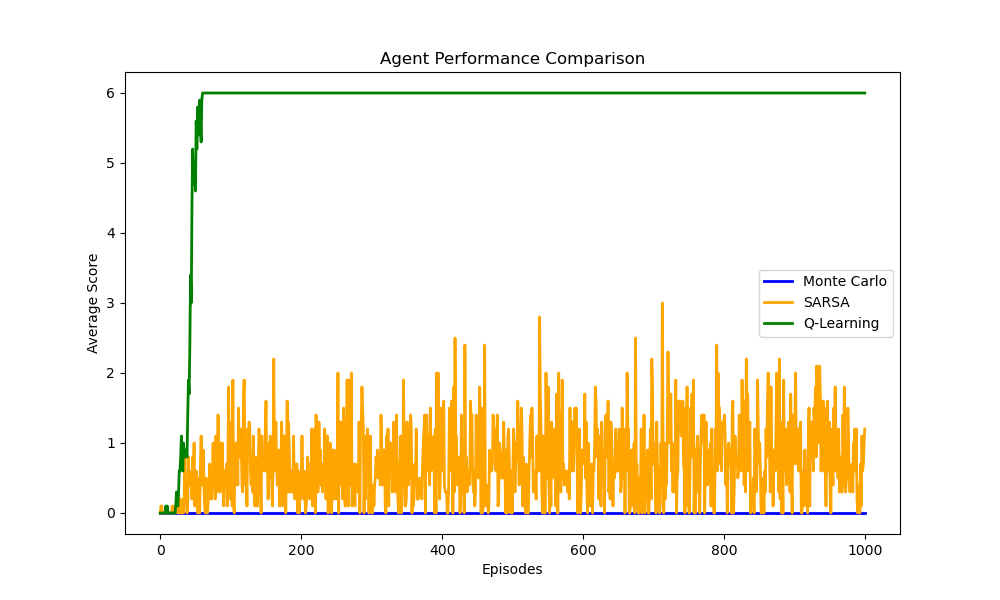
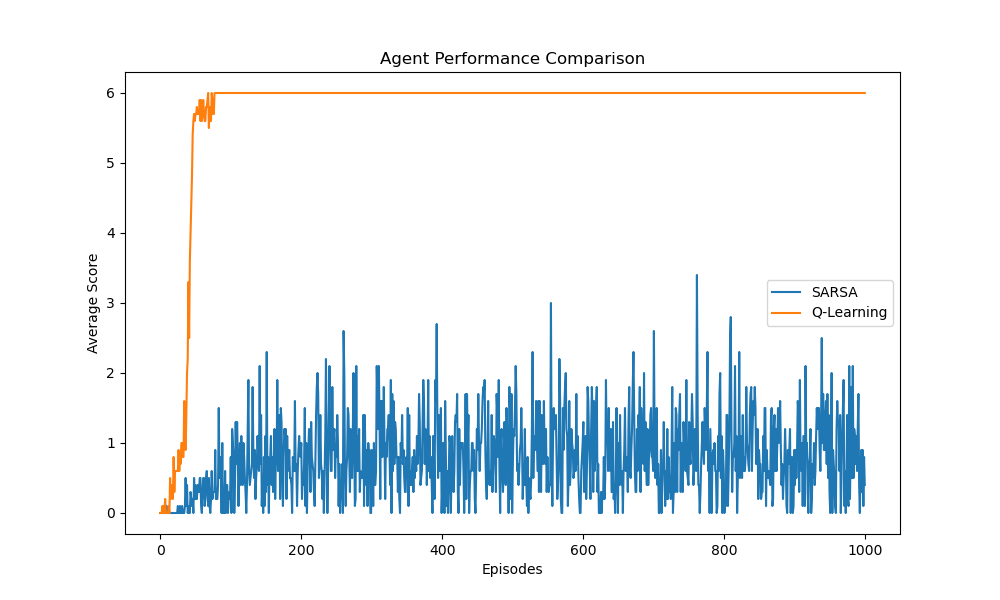
update plots so you can compare any number of agents

Changed region(s): [[0.155, 0.15, 0.868, 0.87], [0.744, 0.45, 0.899, 0.57]]

diff --git a/main.py b/main.py
@@ -260,6 +260,7 @@ if __name__ == '__main__':
     parser.add_argument('--monte', action='store_true', help='if Monte Carlo algorithm should be run')
     parser.add_argument('--qlearning', action='store_true', help='if Q-Learning algorithm should be run')
     parser.add_argument('--viz', action='store_true', help="if visualization is wanted")
+    parser.add_argument('--plot', action='store_true', help="if plotting is wanted")
     parser.add_argument('--gamma', help="the value to be used for gamma")
     parser.add_argument('--learningrate', help='the value to be used for learning rate')
     parser.add_argument('--epsilon', help='the value to be used for epsilon')
@@ -269,98 +270,77 @@ if __name__ == '__main__':
     
     #print("Running Perfect agent...")
     #perfect_metrics = run_trials(PerfectAgent, args=args)
+    agents = []
+    agent_labels = []
+    avg_rewards = []
+    avg_scores = []
+    visit_counts = []
+    win_rates = []
+    win_statuses = []
     
     if args.monte:
         monte_metrics = run_trials(MonteCarloAgent, args=args)
+        agents.append(MonteCarloAgent)
+        agent_labels.append("Monte Carlo")
+        avg_rewards.append(monte_metrics["avg_rewards"])
+        avg_scores.append(monte_metrics["avg_scores"])
+        visit_counts.append(monte_metrics["state_action_visit_count"])
+        win_rates.append(monte_metrics["avg_wins"])
+        win_statuses.append(monte_metrics["win_statuses"])
   
     if args.sarsa:
         print("Training SARSA agent...")
         sarsa_metrics = run_trials(SARSA_0, args=args)
+        agents.append(SARSA_0)
+        agent_labels.append("SARSA")
+        avg_rewards.append(sarsa_metrics["avg_rewards"])
+        avg_scores.append(sarsa_metrics["avg_scores"])
+        visit_counts.append(sarsa_metrics["state_action_visit_count"])
+        win_rates.append(sarsa_metrics["avg_wins"])
+        win_statuses.append(sarsa_metrics["win_statuses"])
     
     if args.qlearning:
         print("Training Q-Learning agent...")
         qlearning_metrics = run_trials(QLearningAgent, args=args)
-
-    if PLOT_METRICS:
-        # Plot cumulative returns
-        metrics.plot_cumulative_return(
-            avg_rewards1=monte_metrics["avg_rewards"],
-            agent1_label="Monte Carlo",
-            avg_rewards2=sarsa_metrics["avg_rewards"],
-            agent2_label="SARSA",
-            avg_rewards3=qlearning_metrics["avg_rewards"],
-            agent3_label="Q-Learning",
-            save_path=METRICS_PATH
-        )
+        qlearning_metrics = run_trials(QLearningAgent, args=args)
+        agents.append(QLearningAgent)
+        agent_labels.append("Q-Learning")
+        avg_rewards.append(qlearning_metrics["avg_rewards"])
+        avg_scores.append(qlearning_metrics["avg_scores"])
+        visit_counts.append(qlearning_metrics["state_action_visit_count"])
+        win_rates.append(qlearning_metrics["avg_wins"])
+        win_statuses.append(qlearning_metrics["win_statuses"])
         
-        # Plot scores
-        metrics.plot_agent_scores(agent_name="Monte Carlo", agent_scores=monte_metrics["avg_scores"], save_path=METRICS_PATH)
-        metrics.plot_agent_scores(agent_name="SARSA", agent_scores=sarsa_metrics["avg_scores"], save_path=METRICS_PATH)
-        metrics.plot_agent_scores(agent_name="Q-Learning", agent_scores=qlearning_metrics["avg_scores"], save_path=METRICS_PATH)
-        
-        # Plot all scores
-        metrics.plot_all_agents_scores(
-            avg_scores1=monte_metrics["avg_scores"],
-            agent1_label="Monte Carlo",
-            avg_scores2=sarsa_metrics["avg_scores"],
-            agent2_label="SARSA",
-            avg_scores3=qlearning_metrics["avg_scores"],
-            agent3_label="Q-Learning",
-            save_path=METRICS_PATH
-        )
-        
-        # Plot state visitation
-        metrics.plot_state_visitation(monte_metrics["state_visit_percentages"], "Monte Carlo", save_path=METRICS_PATH)
-        metrics.plot_state_visitation(sarsa_metrics["state_visit_percentages"], "SARSA", save_path=METRICS_PATH)
-        metrics.plot_state_visitation(qlearning_metrics["state_visit_percentages"], "Q-Learning", save_path=METRICS_PATH)
+    # Only plot if visualization is requested
+    if args.plot:
+        if args.monte:
+            metrics.plot_agent_scores(agent_name="Monte Carlo", agent_scores=monte_metrics["avg_scores"], save_path=METRICS_PATH)
+            metrics.plot_state_visitation(monte_metrics["state_visit_percentages"], "Monte Carlo", save_path=METRICS_PATH)
+            metrics.plot_visit_percentage(agent_name="Monte Carlo", visit_count=monte_metrics["state_action_visit_count"], save_path=METRICS_PATH)
+            metrics.plot_mean_visited_states_per_action(visit_count=monte_metrics["state_action_visit_count"], agent_name="Monte Carlo", save_path=METRICS_PATH)
+            metrics.plot_state_action_distribution(visit_count=monte_metrics["state_action_visit_count"], agent_name="Monte Carlo", save_path=METRICS_PATH)
+        if args.sarsa:
+            metrics.plot_agent_scores(agent_name="SARSA", agent_scores=sarsa_metrics["avg_scores"], save_path=METRICS_PATH)
+            metrics.plot_state_visitation(sarsa_metrics["state_visit_percentages"], "SARSA", save_path=METRICS_PATH)
+            metrics.plot_visit_percentage(agent_name="SARSA", visit_count=sarsa_metrics["state_action_visit_count"], save_path=METRICS_PATH)
+            metrics.plot_mean_visited_states_per_action(visit_count=sarsa_metrics["state_action_visit_count"], agent_name="SARSA", save_path=METRICS_PATH)
+            metrics.plot_state_action_distribution(visit_count=sarsa_metrics["state_action_visit_count"], agent_name="SARSA", save_path=METRICS_PATH)
+        if args.qlearning:
+            metrics.plot_agent_scores(agent_name="Q-Learning", agent_scores=qlearning_metrics["avg_scores"], save_path=METRICS_PATH)
+            metrics.plot_state_visitation(qlearning_metrics["state_visit_percentages"], "Q-Learning", save_path=METRICS_PATH)
+            metrics.plot_visit_percentage(agent_name="Q-Learning", visit_count=qlearning_metrics["state_action_visit_count"], save_path=METRICS_PATH)
+            metrics.plot_mean_visited_states_per_action(visit_count=qlearning_metrics["state_action_visit_count"], agent_name="Q-Learning", save_path=METRICS_PATH)
+            metrics.plot_state_action_distribution(visit_count=qlearning_metrics["state_action_visit_count"], agent_name="Q-Learning", save_path=METRICS_PATH)
 
-        # Plot visit percentage
-        metrics.plot_visit_percentage(agent_name="Monte Carlo", visit_count=monte_metrics["state_action_visit_count"], save_path=METRICS_PATH)
-        metrics.plot_visit_percentage(agent_name="SARSA", visit_count=sarsa_metrics["state_action_visit_count"], save_path=METRICS_PATH)
-        metrics.plot_visit_percentage(agent_name="Q-Learning", visit_count=qlearning_metrics["state_action_visit_count"], save_path=METRICS_PATH)
+        if len(agent_labels) > 1:
+            metrics.plot_winning_percentage(agent_labels, win_rates, save_path=METRICS_PATH)
+            metrics.plot_cumulative_return(avg_rewards, agent_labels, save_path=METRICS_PATH)
+            metrics.plot_mean_visited_states_percentage(visit_counts, agent_labels, save_path=METRICS_PATH)
+            metrics.plot_all_agents_scores(avg_scores, agent_labels, save_path=METRICS_PATH)
+            metrics.plot_winning_percentage_over_episodes(win_statuses, agent_labels, save_path=METRICS_PATH)
+        else:
+            print("At least two agents are required for comparison.")
 
-        # Plot winning percentage
-        metrics.plot_winning_percentage(
-            agent1_label="Monte Carlo",
-            avg_wins1=monte_metrics["avg_wins"],
-            agent2_label="SARSA",
-            avg_wins2=sarsa_metrics["avg_wins"],
-            agent3_label="Q-Learning",
-            avg_wins3=qlearning_metrics["avg_wins"],
-            save_path=METRICS_PATH
-        )
-
-        # Plot winning percentage over episodes
-        metrics.plot_winning_percentage_over_episodes(
-            agent1_wins=monte_metrics["win_statuses"],
-            agent1_label="Monte Carlo",
-            agent2_wins=sarsa_metrics["win_statuses"],
-            agent2_label="SARSA",
-            agent3_wins=qlearning_metrics["win_statuses"],
-            agent3_label="Q-Learning",
-            save_path=METRICS_PATH
-        )
-
-        # Additional metrics plots
-        metrics.plot_mean_visited_states_percentage(
-            visit_count1=monte_metrics["state_action_visit_count"],
-            agent1_label="Monte Carlo",
-            visit_count2=sarsa_metrics["state_action_visit_count"],
-            agent2_label="SARSA",
-            visit_count3=qlearning_metrics["state_action_visit_count"],
-            agent3_label="Q-Learning",
-            save_path=METRICS_PATH
-        )
-        
-        metrics.plot_mean_visited_states_per_action(visit_count=monte_metrics["state_action_visit_count"], agent_name="Monte Carlo", save_path=METRICS_PATH)
-        metrics.plot_mean_visited_states_per_action(visit_count=sarsa_metrics["state_action_visit_count"], agent_name="SARSA", save_path=METRICS_PATH)
-        metrics.plot_mean_visited_states_per_action(visit_count=qlearning_metrics["state_action_visit_count"], agent_name="Q-Learning", save_path=METRICS_PATH)
-
-        # Plot state action visits
-        metrics.plot_state_action_distribution(visit_count=monte_metrics["state_action_visit_count"], agent_name="Monte Carlo", save_path=METRICS_PATH)
-        metrics.plot_state_action_distribution(visit_count=sarsa_metrics["state_action_visit_count"], agent_name="SARSA", save_path=METRICS_PATH)
-        metrics.plot_state_action_distribution(visit_count=qlearning_metrics["state_action_visit_count"], agent_name="Q-Learning", save_path=METRICS_PATH)
-        
         #verify_get_state_index(PongEnv())
         
         # Tune hyperparameters

diff --git a/metrics.py b/metrics.py
@@ -28,9 +28,10 @@ def plot_visit_percentage(agent_name, visit_count, save_path=None):
         plt.savefig(file_path)
     plt.show()
 
-def plot_winning_percentage(agent1_label, avg_wins1, agent2_label, avg_wins2, agent3_label, avg_wins3, save_path=None):
+def plot_winning_percentage(agent_labels: List[str], avg_wins: List[float], save_path=None):
     plt.figure(figsize=(10, 6))
-    plt.bar([agent1_label, agent2_label, agent3_label], [avg_wins1 * 100, avg_wins2 * 100, avg_wins3 * 100], color=['blue', 'orange', 'green'])
+    # Plotting each agent's winning percentage dynamically
+    plt.bar(agent_labels, [win * 100 for win in avg_wins], color=sns.color_palette("Set2", len(agent_labels)))
     plt.ylabel("Mean Winning Percentage (%)")
     plt.title("Mean Winning Percentage Comparison")
     if save_path:
@@ -38,11 +39,10 @@ def plot_winning_percentage(agent1_label, avg_wins1, agent2_label, avg_wins2, ag
         plt.savefig(file_path)
     plt.show()
 
-def plot_cumulative_return(avg_rewards1, agent1_label, avg_rewards2, agent2_label, avg_rewards3, agent3_label, save_path=None):
+def plot_cumulative_return(avg_rewards: List[np.ndarray], agent_labels: List[str], save_path=None):
     plt.figure(figsize=(10, 6))
-    plt.plot(moving_average(avg_rewards1), label=agent1_label, color='blue')
-    plt.plot(moving_average(avg_rewards2), label=agent2_label, color='orange')
-    plt.plot(moving_average(avg_rewards3), label=agent3_label, color='green')
+    for i, rewards in enumerate(avg_rewards):
+        plt.plot(moving_average(rewards), label=agent_labels[i], linewidth=2)
     plt.xlabel("Episodes")
     plt.ylabel("Mean Cumulative Return")
     plt.title("Mean Cumulative Return over Episodes")
@@ -52,12 +52,10 @@ def plot_cumulative_return(avg_rewards1, agent1_label, avg_rewards2, agent2_labe
         plt.savefig(file_path)
     plt.show()
 
-def plot_mean_visited_states_percentage(visit_count1, agent1_label, visit_count2, agent2_label, visit_count3, agent3_label, save_path=None):
-    visited_states1 = np.sum(visit_count1 > 0) / visit_count1.size * 100
-    visited_states2 = np.sum(visit_count2 > 0) / visit_count2.size * 100
-    visited_states3 = np.sum(visit_count3 > 0) / visit_count3.size * 100
+def plot_mean_visited_states_percentage(visit_counts: List[np.ndarray], agent_labels: List[str], save_path=None):
     plt.figure(figsize=(10, 6))
-    plt.bar([agent1_label, agent2_label, agent3_label], [visited_states1, visited_states2, visited_states3], color=['blue', 'orange', 'green'])
+    visited_states = [np.sum(visit_count > 0) / visit_count.size * 100 for visit_count in visit_counts]
+    plt.bar(agent_labels, visited_states, color=sns.color_palette("Set2", len(agent_labels)))
     plt.ylabel("Mean Percentage of Visited States (%)")
     plt.title("Mean Percentage of Visited States Comparison")
     if save_path:
@@ -65,20 +63,28 @@ def plot_mean_visited_states_percentage(visit_count1, agent1_label, visit_count2
         plt.savefig(file_path)
     plt.show()
 
-def plot_winning_percentage_over_episodes(agent1_wins, agent1_label, agent2_wins, agent2_label, agent3_wins, agent3_label, save_path=None):
+def plot_winning_percentage_over_episodes(win_statuses, agent_labels, save_path=None):
+    """
+    Plots the winning percentage over episodes for multiple agents based on win statuses.
+
+    :param win_statuses: List of lists where each sublist contains win statuses (1 for win, 0 for loss) for each agent.
+    :param agent_labels: List of agent labels corresponding to each list in win_statuses.
+    :param save_path: Optional path to save the plot image.
+    """
     plt.figure(figsize=(12, 6))
-    agent1_moving_avg = moving_average(agent1_wins, window_size=30)
-    agent2_moving_avg = moving_average(agent2_wins, window_size=30)
-    agent3_moving_avg = moving_average(agent3_wins, window_size=30)
-    plt.plot(agent1_moving_avg, label=f"{agent1_label} Winning Percentage (Moving Avg)", color='blue')
-    plt.plot(agent2_moving_avg, label=f"{agent2_label} Winning Percentage (Moving Avg)", color='orange')
-    plt.plot(agent3_moving_avg, label=f"{agent3_label} Winning Percentage (Moving Avg)", color='green')
+
+    # Plot each agent's winning percentage moving average
+    for i, wins in enumerate(win_statuses):
+        moving_avg = moving_average(wins, window_size=30)
+        plt.plot(moving_avg, label=f"{agent_labels[i]} Winning Percentage (Moving Avg)", color=f"C{i}")
+
     plt.xlabel("Episodes")
     plt.ylabel("Winning Percentage")
     plt.title("Winning Percentage Over Episodes")
     plt.legend()
     plt.ylim(0, 1.1)
     plt.grid()
+
     if save_path:
         file_path = os.path.join(save_path, "winning_percentage_over_episodes.png")
         plt.savefig(file_path)
@@ -153,33 +159,17 @@ def plot_agent_scores(agent_scores: np.ndarray, agent_name: str, save_path:str =
         plt.savefig(file_path)
     plt.show()
 
-def plot_all_agents_scores(avg_scores1, agent1_label, avg_scores2, agent2_label, avg_scores3, agent3_label, save_path=None):
-    """
-    Plots the scores of all three agents and saves the plot to the given path.
-
-    :param avg_rewards1: Array of scores for Agent 1
-    :param agent1_label: Label for Agent 1
-    :param avg_rewards2: Array of scores for Agent 2
-    :param agent2_label: Label for Agent 2
-    :param avg_rewards3: Array of scores for Agent 3
-    :param agent3_label: Label for Agent 3
-    :param save_path: Path to save the plot (if provided)
-    """
-    # Create a figure and axis for plotting
+    
+def plot_all_agents_scores(agent_scores: List[np.ndarray], agent_labels: List[str], save_path=None):
     plt.figure(figsize=(10, 6))
-    
-    # Plot scores for all agents
-    plt.plot(avg_scores1, label=agent1_label, color='blue', linestyle='-', linewidth=2)
-    plt.plot(avg_scores2, label=agent2_label, color='orange', linestyle='-', linewidth=2)
-    plt.plot(avg_scores3, label=agent3_label, color='green', linestyle='-', linewidth=2)
-    
-    # Add labels, title, and legend
-    plt.xlabel('Episodes')
-    plt.ylabel('Average Score')
-    plt.title('Agent Performance Comparison')
+    for i, scores in enumerate(agent_scores):
+        plt.plot(scores, label=agent_labels[i])
+    plt.title("Agent Performance Comparison")
+    plt.xlabel("Episodes")
+    plt.ylabel("Average Score")
     plt.legend(loc='best')
-
     if save_path:
         file_path = os.path.join(save_path, "all_scores.png")
         plt.savefig(file_path)
     plt.show()
+    
